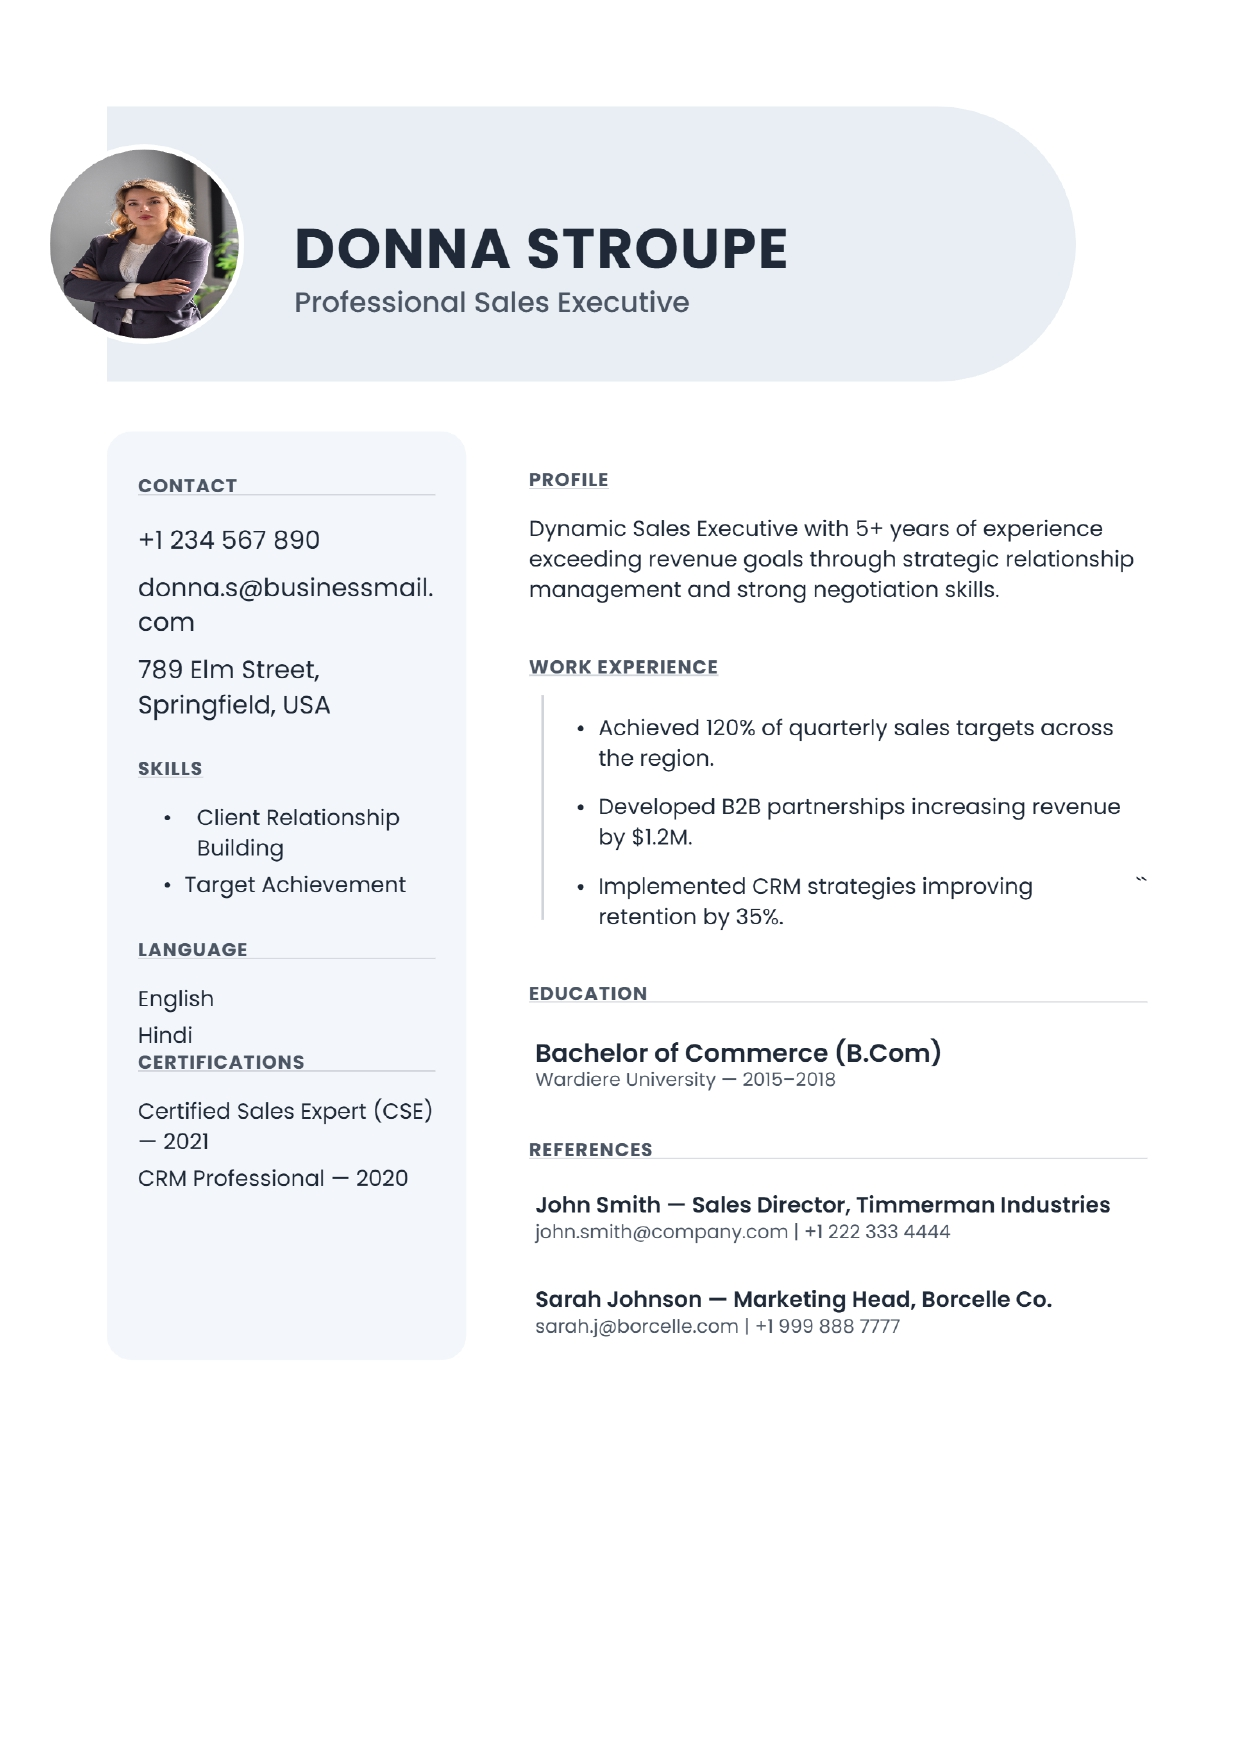
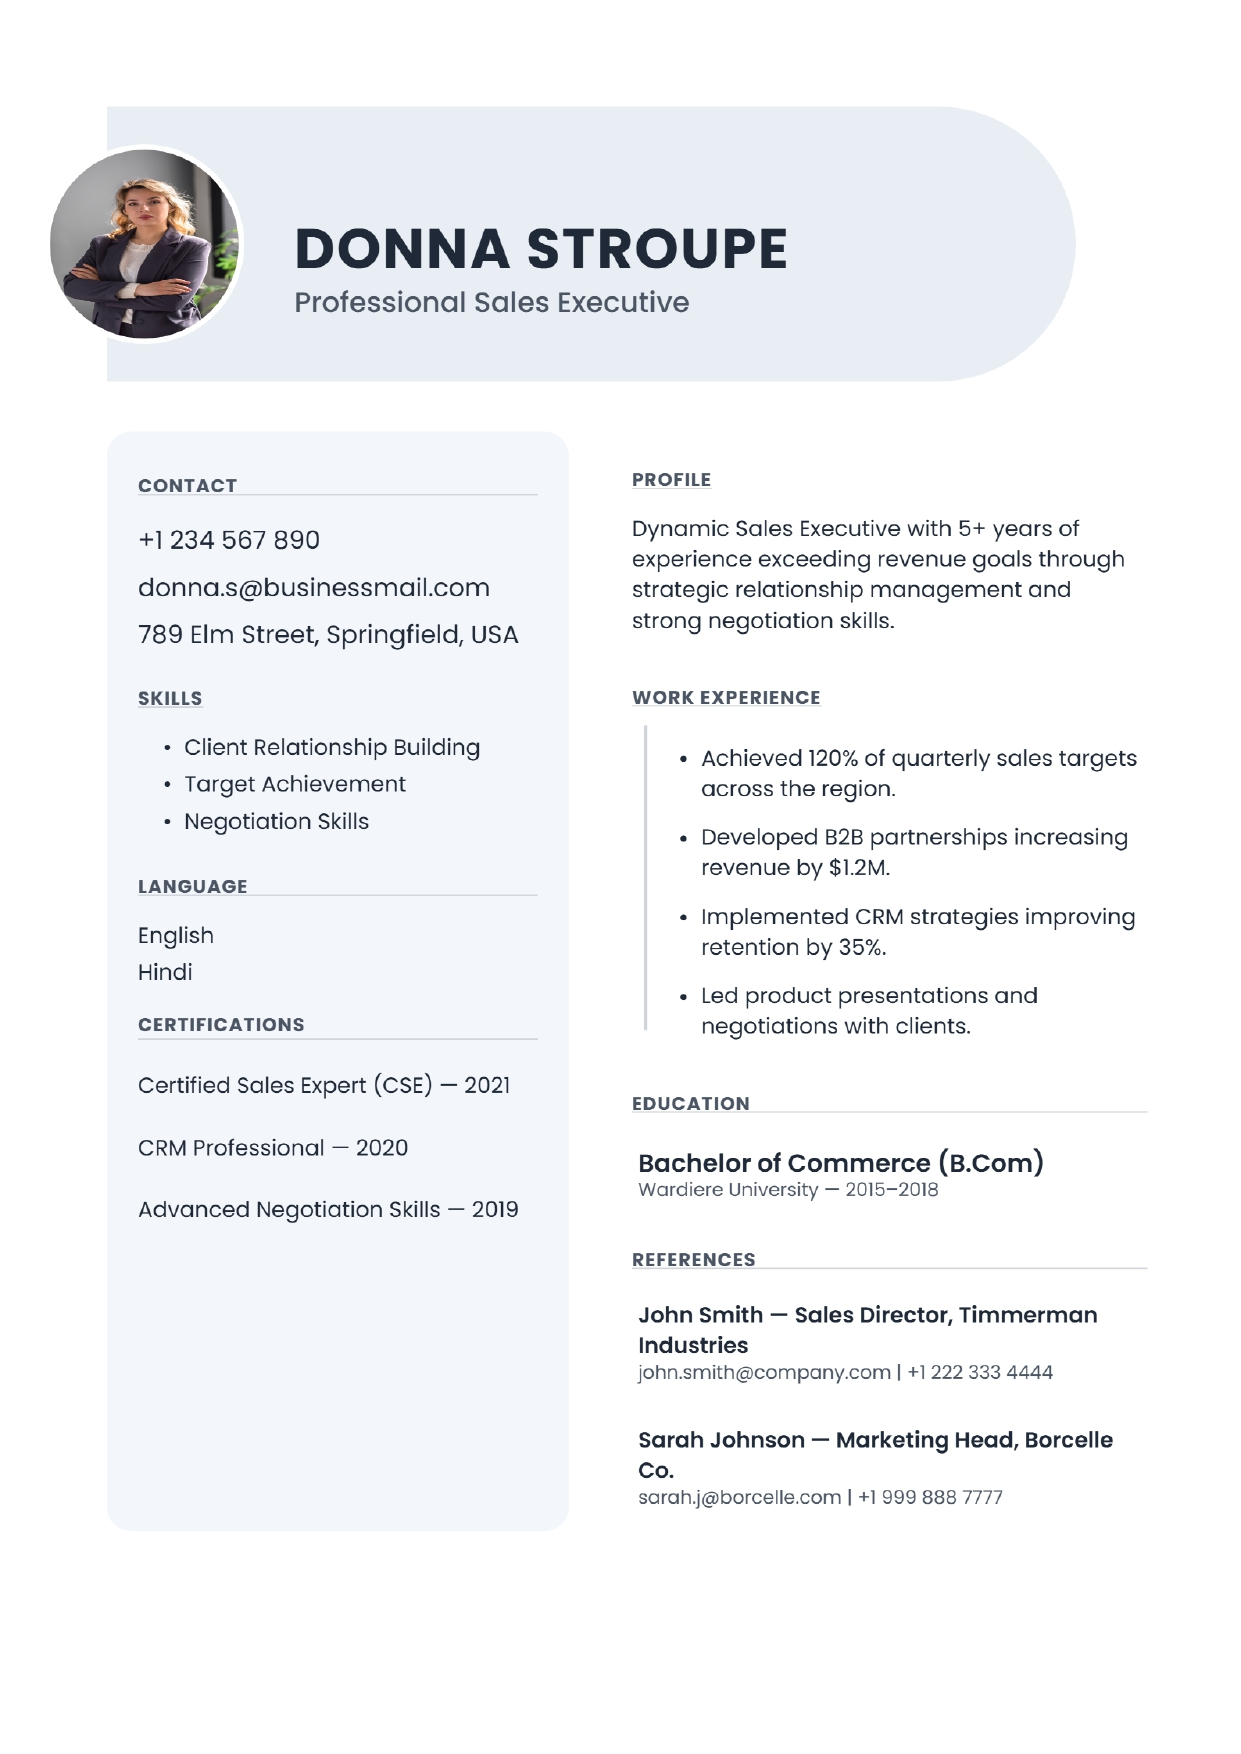
updates in temp22

Changed region(s): [[0.3981, 0.2463, 0.9186, 0.862], [0.0919, 0.3387, 0.4287, 0.7081]]

diff --git a/components/templates/Template22.jsx b/components/templates/Template22.jsx
@@ -385,19 +385,25 @@ export default function Template22() {
               </section>
 
               {/* Skills */}
-              <section className="mb-6 section-container" data-section="skills">
+              <section
+                className="mb-6 section-container group"
+                data-section="skills"
+              >
                 <div className="flex justify-between items-center">
                   <h3 className="text-xs font-bold uppercase tracking-wider text-gray-600 border-b border-gray-300 pb-1">
                     Skills
                   </h3>
-                  <AISparkle section="skills" onGenerate={handleAIGenerate} />
+
+                  {/* AI Sparkle - only visible on hover */}
+                  <div className="opacity-0 group-hover:opacity-100 transition-opacity">
+                    <AISparkle section="skills" onGenerate={handleAIGenerate} />
+                  </div>
                 </div>
 
                 <ul
                   id="skills-list"
                   className="text-sm mt-2 list-disc pl-4 space-y-1"
                   onKeyDown={(e) => {
-                    // cleanup empty lis on backspace
                     if (e.key === "Backspace") {
                       const lis = e.currentTarget.querySelectorAll("li");
                       lis.forEach((li) => {
@@ -407,7 +413,7 @@ export default function Template22() {
                   }}
                 >
                   <li className="text-sm relative group flex items-baseline gap-2 leading-snug">
-                    <span className="mr-2">•</span>
+                    <span>•</span>
                     <span contentEditable suppressContentEditableWarning>
                       Client Relationship Building
                     </span>
@@ -416,7 +422,7 @@ export default function Template22() {
                         data-action="duplicate"
                         className="text-gray-600 rounded p-1 shadow-md"
                       >
-                        <CopyPlus className="w-3 h-3 " />
+                        <CopyPlus className="w-3 h-3" />
                       </button>
                       <button
                         data-action="delete"
@@ -426,10 +432,74 @@ export default function Template22() {
                       </button>
                     </div>
                   </li>
+
                   <li className="text-sm flex items-start relative group">
                     <span className="mr-2">•</span>
                     <span contentEditable suppressContentEditableWarning>
                       Target Achievement
+                    </span>
+                    <div className="absolute -right-4 -top-1 opacity-0 group-hover:opacity-100 transition-opacity flex gap-1 z-10">
+                      <button
+                        data-action="duplicate"
+                        className="text-gray-600 rounded p-1 shadow-md"
+                      >
+                        <CopyPlus className="w-3 h-3" />
+                      </button>
+                      <button
+                        data-action="delete"
+                        className="text-gray-600 rounded p-1 shadow-md"
+                      >
+                        <Trash2 className="w-3 h-3" />
+                      </button>
+                    </div>
+                  </li>
+
+                  <li className="text-sm flex items-start relative group">
+                    <span className="mr-2">•</span>
+                    <span contentEditable suppressContentEditableWarning>
+                      Negotiation Skills
+                    </span>
+                    <div className="absolute -right-4 -top-1 opacity-0 group-hover:opacity-100 transition-opacity flex gap-1 z-10">
+                      <button
+                        data-action="duplicate"
+                        className="text-gray-600 rounded p-1 shadow-md"
+                      >
+                        <CopyPlus className="w-3 h-3" />
+                      </button>
+                      <button
+                        data-action="delete"
+                        className="text-gray-600 rounded p-1 shadow-md"
+                      >
+                        <Trash2 className="w-3 h-3" />
+                      </button>
+                    </div>
+                  </li>
+
+                  <li className="text-sm flex items-start relative group">
+                    <span className="mr-2">•</span>
+                    <span contentEditable suppressContentEditableWarning>
+                      CRM Software Proficiency
+                    </span>
+                    <div className="absolute -right-4 -top-1 opacity-0 group-hover:opacity-100 transition-opacity flex gap-1 z-10">
+                      <button
+                        data-action="duplicate"
+                        className="text-gray-600 rounded p-1 shadow-md"
+                      >
+                        <CopyPlus className="w-3 h-3" />
+                      </button>
+                      <button
+                        data-action="delete"
+                        className="text-gray-600 rounded p-1 shadow-md"
+                      >
+                        <Trash2 className="w-3 h-3" />
+                      </button>
+                    </div>
+                  </li>
+
+                  <li className="text-sm flex items-start relative group">
+                    <span className="mr-2">•</span>
+                    <span contentEditable suppressContentEditableWarning>
+                      Market Analysis
                     </span>
                     <div className="absolute -right-4 -top-1 opacity-0 group-hover:opacity-100 transition-opacity flex gap-1 z-10">
                       <button
@@ -525,6 +595,22 @@ export default function Template22() {
                       </button>
                     </div>
                   </li>
+
+                  <li
+                    className="relative group"
+                    contentEditable
+                    suppressContentEditableWarning
+                  >
+                    Advanced Negotiation Skills — 2019
+                    <div className="absolute right-0 opacity-0 group-hover:opacity-100 flex gap-1">
+                      <button data-action="duplicate" className="p-1">
+                        <CopyPlus className="w-3 h-3" />
+                      </button>
+                      <button data-action="delete" className="p-1">
+                        <Trash2 className="w-3 h-3" />
+                      </button>
+                    </div>
+                  </li>
                 </ul>
               </section>
             </div>
@@ -540,7 +626,12 @@ export default function Template22() {
                   <h3 className="text-xs font-bold uppercase tracking-wider text-gray-600 border-b border-gray-300 pb-1">
                     Profile
                   </h3>
-                  <AISparkle section="profile" onGenerate={handleAIGenerate} />
+                  <div className="opacity-0 group-hover:opacity-100 transition-opacity">
+                    <AISparkle
+                      section="profile"
+                      onGenerate={handleAIGenerate}
+                    />
+                  </div>
                 </div>
                 <p
                   id="profile-text"
@@ -623,47 +714,87 @@ export default function Template22() {
                           <Trash2 className="w-3 h-3" />
                         </button>
                       </div>
-                      ``
+                    </li>
+
+                    <li className="flex items-baseline gap-2 leading-snug relative group">
+                      <span className="text-base">•</span>
+                      <span
+                        contentEditable
+                        suppressContentEditableWarning
+                        className="inline-block align-top"
+                      >
+                        Led product presentations and negotiations with clients.
+                      </span>
+                      <div className="absolute right-0 opacity-0 group-hover:opacity-100 flex gap-1">
+                        <button data-action="duplicate" className="p-1">
+                          <CopyPlus className="w-3 h-3" />
+                        </button>
+                        <button data-action="delete" className="p-1">
+                          <Trash2 className="w-3 h-3" />
+                        </button>
+                      </div>
                     </li>
                   </ul>
                 </div>
               </section>
 
               {/* Education */}
-              <section className="mb-6">
-                <h3 className="text-xs font-bold uppercase tracking-wider text-gray-600 border-b border-gray-300 pb-1 mb-2">
-                  Education
-                </h3>
-                <div className="relative group p-1">
-                  <p
-                    contentEditable
-                    suppressContentEditableWarning
-                    className="font-semibold"
-                  >
-                    Bachelor of Commerce (B.Com)
-                  </p>
-                  <p
-                    className="text-xs text-gray-600"
-                    contentEditable
-                    suppressContentEditableWarning
-                  >
-                    Wardiere University — 2015–2018
-                  </p>
+            <section className="mb-6">
+  <h3 className="text-xs font-bold uppercase tracking-wider text-gray-600 border-b border-gray-300 pb-1 mb-2">
+    Education
+  </h3>
 
-                  {/* Duplicate / Delete Buttons */}
-              <div className="absolute -right-6 top-1 opacity-0 group-hover:opacity-100 flex gap-1">
-                    <button
-                      data-action="duplicate"
-                      className="p-1 text-gray-600"
-                    >
-                      <CopyPlus className="w-3 h-3" />
-                    </button>
-                    <button data-action="delete" className="p-1 text-gray-600">
-                      <Trash2 className="w-3 h-3" />
-                    </button>
-                  </div>
-                </div>
-              </section>
+  {/* --- Education Item 1 --- */}
+  <div className="relative group p-1 mb-3">
+    <p contentEditable suppressContentEditableWarning className="font-semibold">
+      Bachelor of Commerce (B.Com)
+    </p>
+
+    <p
+      className="text-xs text-gray-600"
+      contentEditable
+      suppressContentEditableWarning
+    >
+      Wardiere University — 2015–2018
+    </p>
+
+    {/* Duplicate / Delete Buttons */}
+    <div className="absolute -right-6 top-1 opacity-0 group-hover:opacity-100 flex gap-1 transition-opacity">
+      <button data-action="duplicate" className="p-1 text-gray-600">
+        <CopyPlus className="w-3 h-3" />
+      </button>
+      <button data-action="delete" className="p-1 text-gray-600">
+        <Trash2 className="w-3 h-3" />
+      </button>
+    </div>
+  </div>
+
+  {/* --- Education Item 2 --- */}
+  <div className="relative group p-1">
+    <p contentEditable suppressContentEditableWarning className="font-semibold">
+      Diploma in Sales Management
+    </p>
+
+    <p
+      className="text-xs text-gray-600"
+      contentEditable
+      suppressContentEditableWarning
+    >
+      Springfield College — 2019
+    </p>
+
+    {/* Duplicate / Delete Buttons */}
+    <div className="absolute -right-6 top-1 opacity-0 group-hover:opacity-100 flex gap-1 transition-opacity">
+      <button data-action="duplicate" className="p-1 text-gray-600">
+        <CopyPlus className="w-3 h-3" />
+      </button>
+      <button data-action="delete" className="p-1 text-gray-600">
+        <Trash2 className="w-3 h-3" />
+      </button>
+    </div>
+  </div>
+</section>
+
 
               {/* References */}
               <section>
